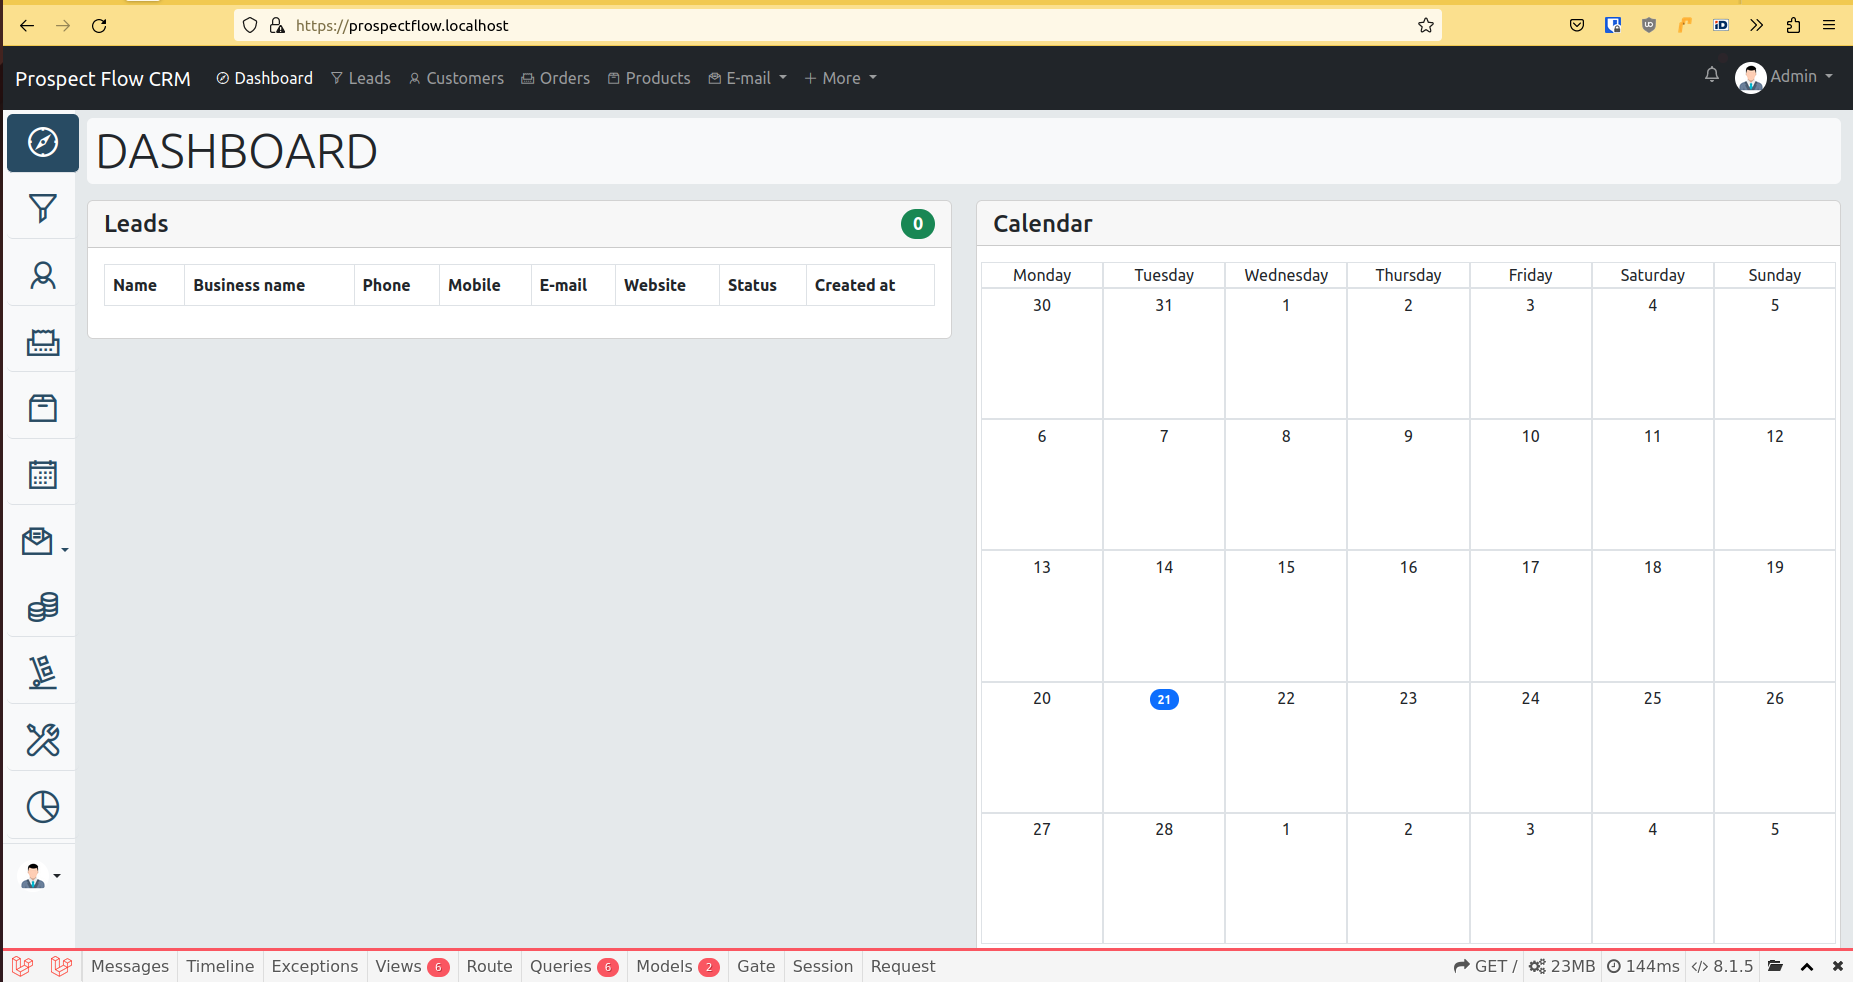
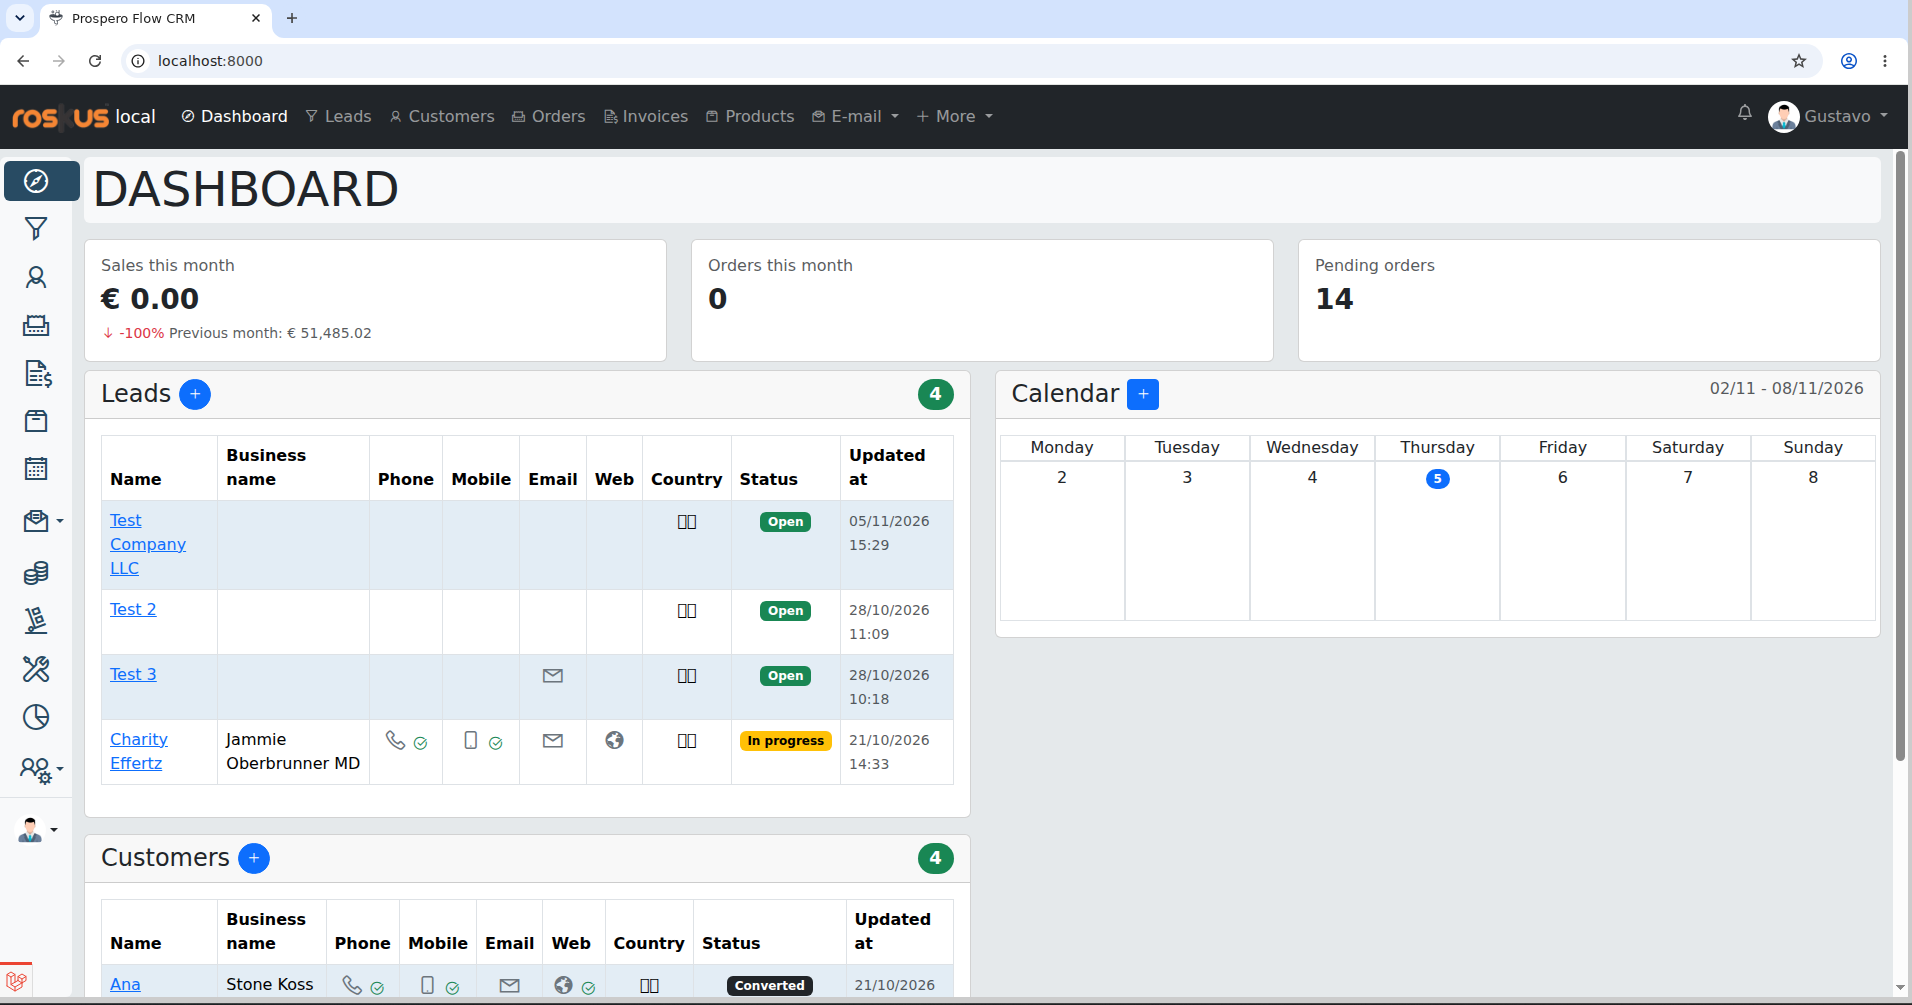
docs: browser extension in the README and new dashboard screenshot (#295)

diff --git a/version.php b/version.php
@@ -1,3 +1,3 @@
 <?php
 
-const APP_VERSION = '5.57.33';
+const APP_VERSION = '5.57.34';

diff --git a/README.md b/README.md
@@ -17,6 +17,7 @@ We made a free open source CRM. Our Community Edition (CE)
 - Multi company (White label)
 - Multi-language
 - REST API
+- Browser extension to save LinkedIn profiles as contacts (Chrome, Edge and Firefox)
 
 [![Quality Gate Status](https://sonarcloud.io/api/project_badges/measure?project=Roskus_prospero-flow-crm&metric=alert_status)](https://sonarcloud.io/summary/new_code?id=Roskus_prospero-flow-crm)
 
@@ -187,6 +188,20 @@ Some API Endpoint for the full list check the doc:
 | GET    | `/api/ticket`      | Get all tickets       |
 | GET    | `/api/ticket/{id}` | Get existing ticket   |
 | POST   | `/api/ticket`      | Create support ticket |
+
+## Browser extension
+
+Saves the LinkedIn profile you are viewing as a contact of a lead or customer, or of a new
+lead, through the REST API. Plain JavaScript in `browser-extension/`, no build step.
+
+Package it from the CRM root; the zip takes the CRM version:
+
+```bash
+php artisan crm:extension:package
+```
+
+It writes `storage/app/browser-extension/prospero-flow-crm-extension-<version>.zip`. Install,
+use and update steps for each browser are in [browser-extension/README.md](browser-extension/README.md).
 
 ## Run tests
 
